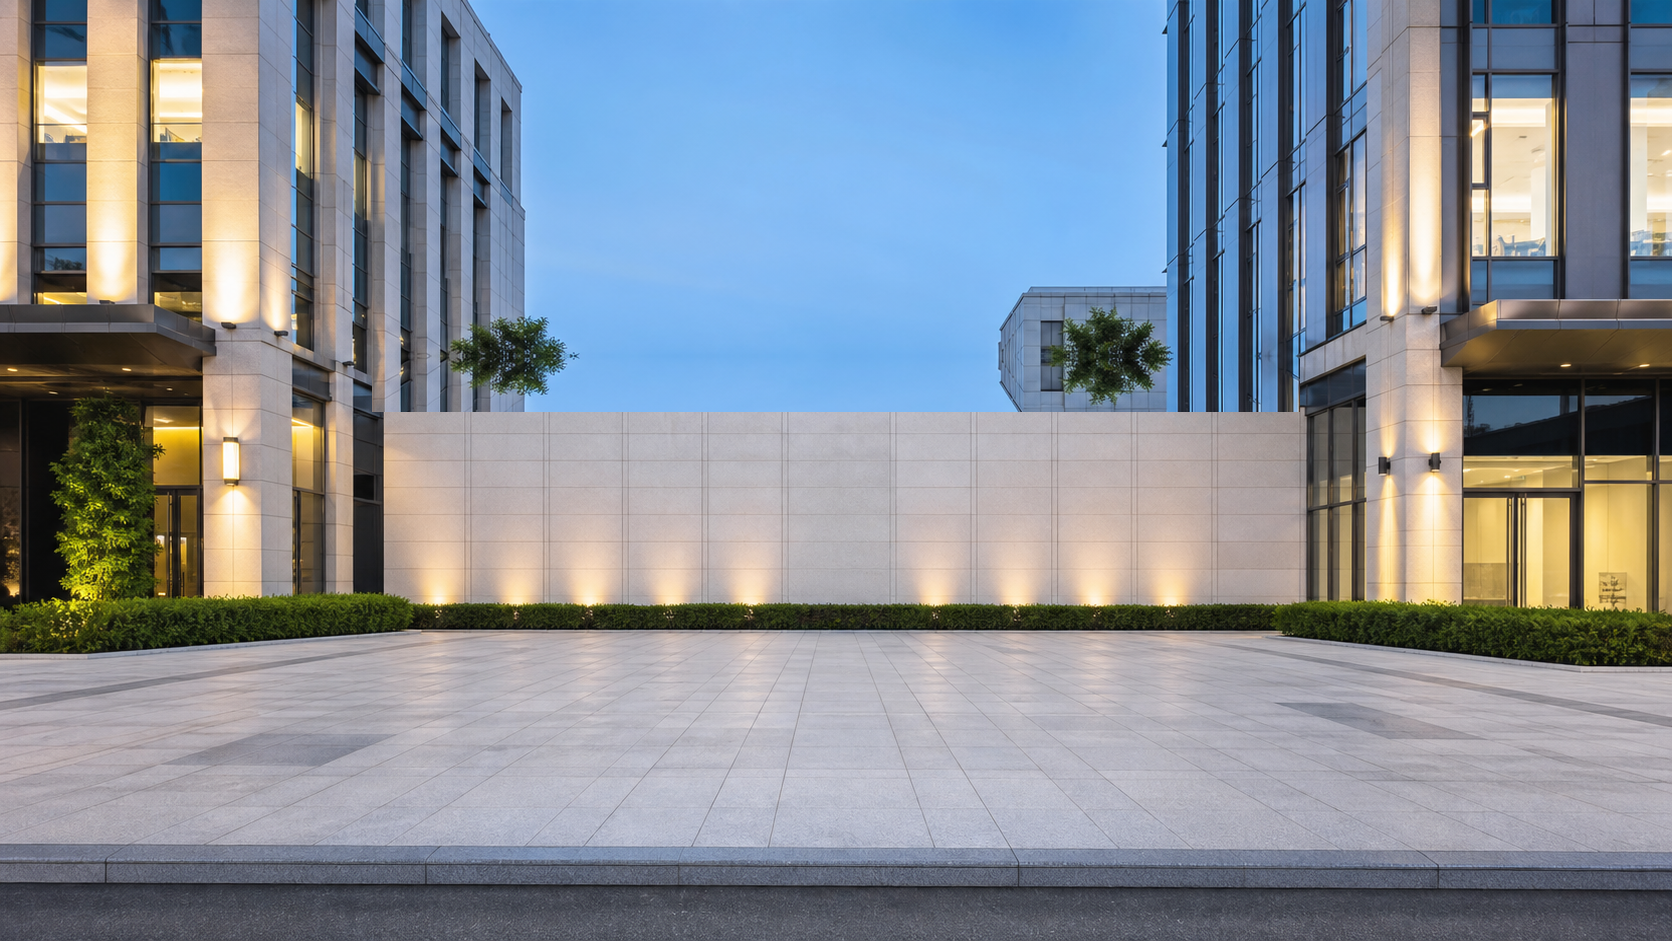
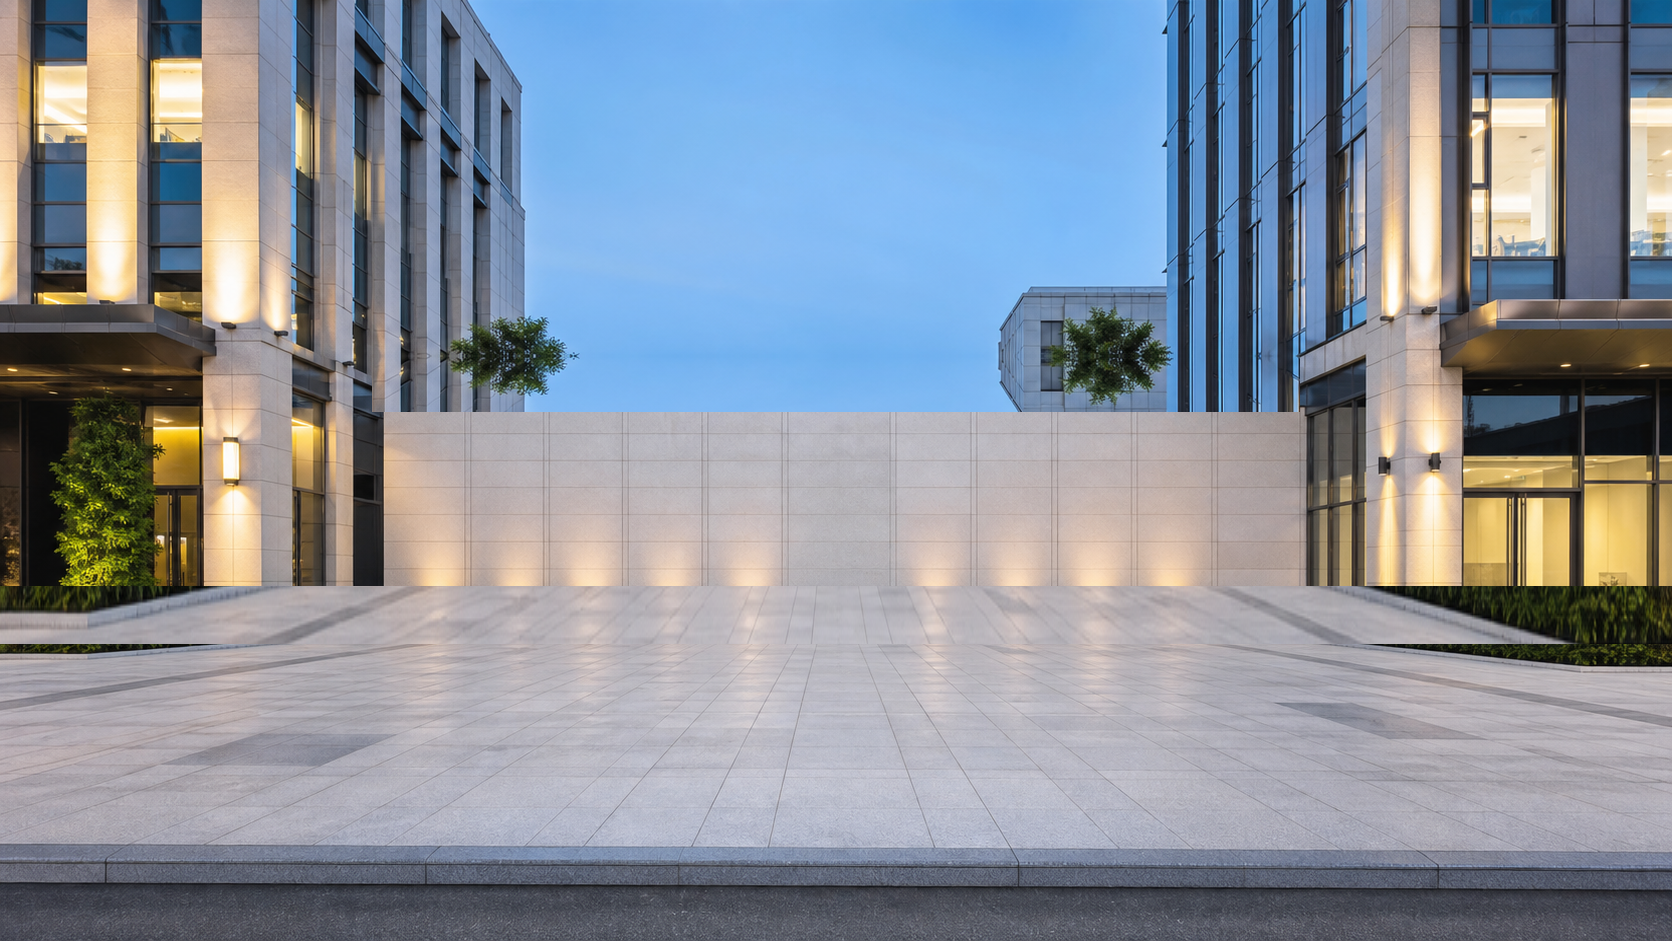
Sehir meydanindaki cali seridi kaldirildi; tasarim duvari her zaman ortaliyor

Changed region(s): [[0.0, 0.6164, 1.0, 0.7088]]

diff --git a/frontend/src/App.jsx b/frontend/src/App.jsx
@@ -1473,10 +1473,15 @@ function App({ theme, onToggleTheme: temaDegistir }) {
    */
   const duvarDibiKaymasi = () => {
     const tasarimYariH = (tasarimHm * (cizimOlcek || 0)) / 2
-    /* Esneyen duvarda hiza duvarın kendi alt kenarı. */
-    if (fotoSahne?.duvarKutu && mekanDuvarHm > 0 && cizimOlcek > 0) {
-      return (mekanDuvarHm * cizimOlcek) / 2 - tasarimYariH
-    }
+    /*
+     * ESNEYEN DUVARDA TASARIM HER ZAMAN DUVARI ORTALIYOR.
+     *
+     * Bir ara alt kenara hizalıyordum; ölçü ya da kabin sayısı değişince
+     * ekran duvarın içinde aşağı yukarı kayıyordu. Duvar tuvalin ortasında
+     * çizildiği için sıfır kayma = duvarın tam ortası; ölçü ne olursa olsun
+     * ekran ortada kalıyor.
+     */
+    if (fotoSahne?.duvarKutu) return 0
     if (!fotoYer?.panelHpx || fotoYer.sigdir) return 0
     const z = sahneYakinlik || 1
     return (fotoYer.panelHpx / 2) * z - tasarimYariH

diff --git a/frontend/src/sahneler.js b/frontend/src/sahneler.js
@@ -173,7 +173,7 @@ export const SAHNELER = [
      * Taş duvar: 905 piksel geniş, üst kenarı 410 (duvarın üstündeki koyu
      * ızgara bandı görselden kaldırıldı; artık duvarın hemen üstü gökyüzü).
      */
-    duvarKutu: { x0: 384, y0: 410, x1: 1289, y1: 610 },
+    duvarKutu: { x0: 384, y0: 410, x1: 1289, y1: 642 },
     maskeli: false,
     /*
      * MEKÂNIN GERÇEK ÖLÇÜLERİ (yaklaşık).
